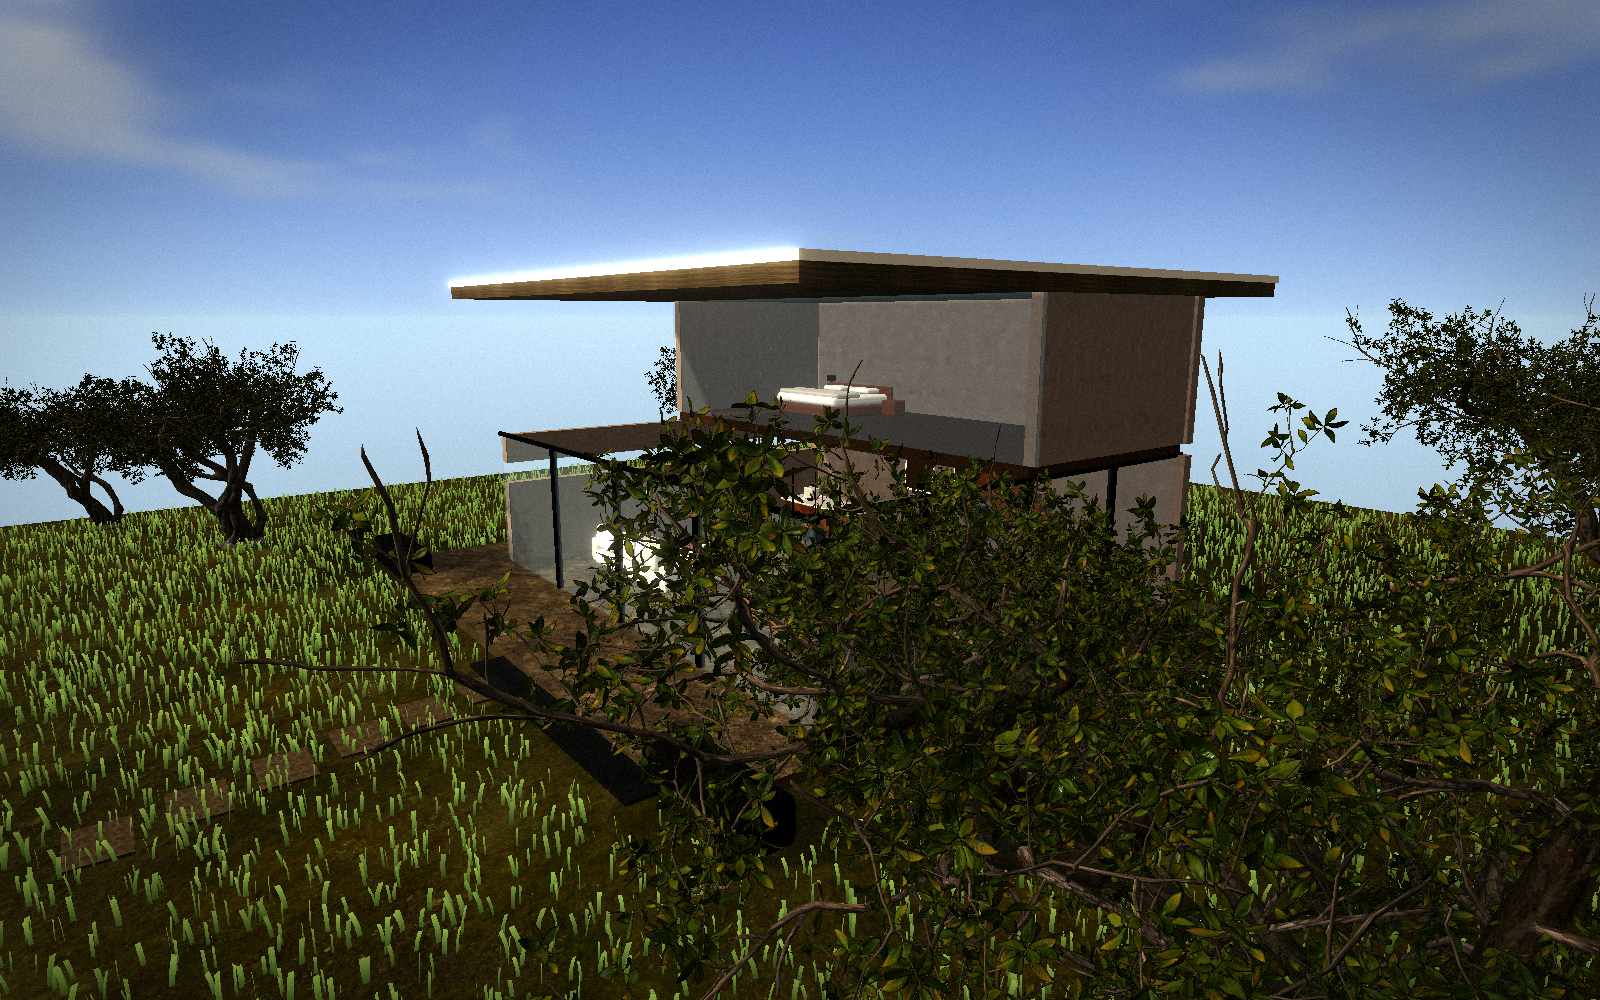
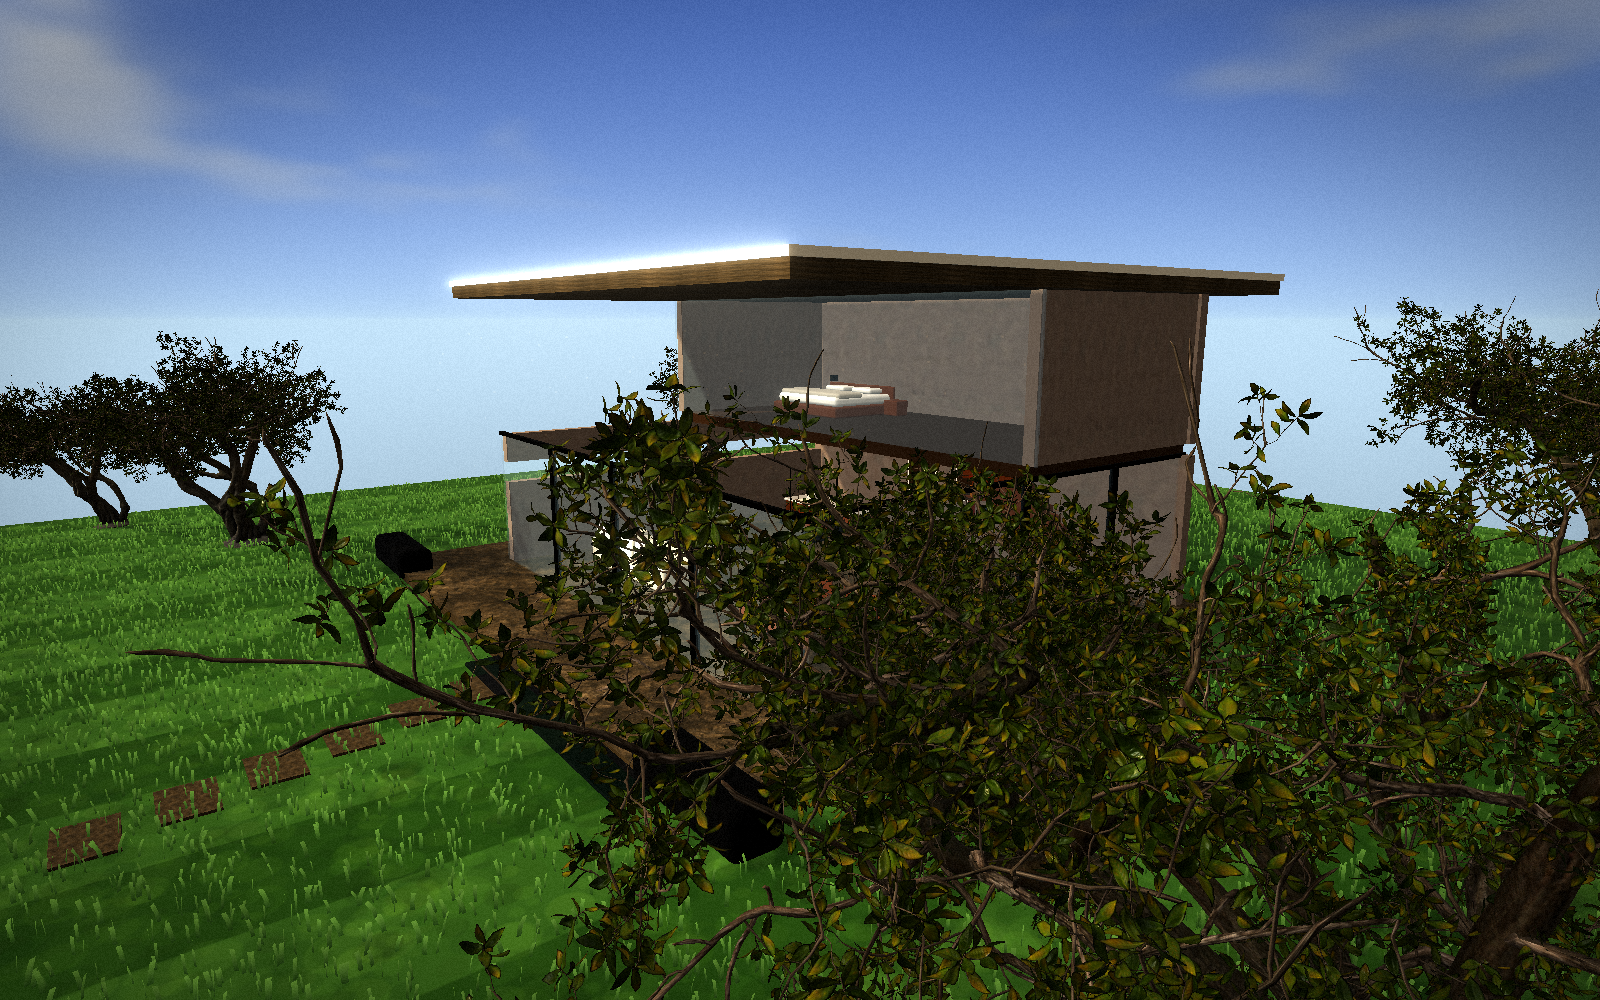
feat: procedural mown lawn with stripes, denser shorter blades in lawn palette

diff --git a/designs/01-house-walkthrough/index.html b/designs/01-house-walkthrough/index.html
@@ -294,7 +294,33 @@ const M = {
   counter: new THREE.MeshStandardMaterial({ color: '#e8e4da', roughness: 0.3, metalness: 0 }),
   metal: new THREE.MeshStandardMaterial({ color: '#2a2723', roughness: 0.35, metalness: 0.9 }),
   glass: new THREE.MeshStandardMaterial({ color: '#b8ccd6', roughness: 0.05, metalness: 0, transparent: true, opacity: 0.12, envMapIntensity: 1.0, side: THREE.DoubleSide }),
-  ground: new THREE.MeshStandardMaterial({ ...pbr('aerial_grass_rock', 7), color: '#b3c489', roughness: 1, metalness: 0 }),
+  // procedural mown lawn — the rock/dirt photo texture read as mud under the grass
+  // blades; alternating mowing stripes are the strongest "kept lawn" cue there is
+  ground: new THREE.MeshStandardMaterial({
+    map: (() => {
+      const c = document.createElement('canvas'); c.width = c.height = 1024;
+      const g = c.getContext('2d');
+      g.fillStyle = '#557741'; g.fillRect(0, 0, 1024, 1024);
+      for (let s = 0; s < 10; s++) {                        // mowing stripes
+        g.fillStyle = s % 2 ? 'rgba(255,255,240,0.07)' : 'rgba(20,40,10,0.09)';
+        g.fillRect(s * 102.4, 0, 102.4, 1024);
+      }
+      let a = 97;
+      const rnd = () => { a |= 0; a = (a + 0x6D2B79F5) | 0; let t = Math.imul(a ^ (a >>> 15), 1 | a); t = (t + Math.imul(t ^ (t >>> 7), 61 | t)) ^ t; return ((t ^ (t >>> 14)) >>> 0) / 4294967296; };
+      for (let i = 0; i < 5200; i++) {                      // tonal mottling
+        const r = 3 + rnd() * 14;
+        g.fillStyle = rnd() < 0.5 ? `rgba(210,230,150,${0.02 + rnd() * 0.05})` : `rgba(25,50,15,${0.02 + rnd() * 0.06})`;
+        g.beginPath(); g.arc(rnd() * 1024, rnd() * 1024, r, 0, 7); g.fill();
+      }
+      const t = new THREE.CanvasTexture(c);
+      t.colorSpace = THREE.SRGBColorSpace;
+      t.wrapS = t.wrapT = THREE.RepeatWrapping;
+      t.repeat.set(2, 2);
+      t.anisotropy = maxAniso;
+      return t;
+    })(),
+    roughness: 1, metalness: 0,
+  }),
   water: new THREE.MeshStandardMaterial({ color: '#1b2733', roughness: 0.08, metalness: 0.4, transparent: true, opacity: 0.85 }),
   foliage: new THREE.MeshStandardMaterial({ vertexColors: true, roughness: 0.88, metalness: 0 }),
   trunk: new THREE.MeshStandardMaterial({ color: '#3a2c20', roughness: 0.95 }),
@@ -474,9 +500,9 @@ function rbox(w, h, d, r, mat, x, y, z) {
 const grassUniforms = { uTime: { value: 0 }, uNight: { value: 0 } };
 (function buildGrass() {
   const rnd = ((a) => () => { a |= 0; a = (a + 0x6D2B79F5) | 0; let t = Math.imul(a ^ (a >>> 15), 1 | a); t = (t + Math.imul(t ^ (t >>> 7), 61 | t)) ^ t; return ((t ^ (t >>> 14)) >>> 0) / 4294967296; })(1234);
-  const COUNT = 20000;
-  const geo = new THREE.PlaneGeometry(0.05, 0.28, 1, 2);   // lawn, not reeds
-  geo.translate(0, 0.14, 0);
+  const COUNT = 26000;
+  const geo = new THREE.PlaneGeometry(0.045, 0.22, 1, 2);   // lawn, not reeds
+  geo.translate(0, 0.11, 0);
   const mat = new THREE.ShaderMaterial({
     side: THREE.DoubleSide,
     uniforms: grassUniforms,
@@ -484,7 +510,7 @@ const grassUniforms = { uTime: { value: 0 }, uNight: { value: 0 } };
       uniform float uTime;
       varying float vH; varying float vShade;
       void main(){
-        vH = position.y / 0.28;
+        vH = position.y / 0.22;
         vec4 local = vec4(position, 1.0);
         vShade = fract(instanceMatrix[3][0] * 0.43 + instanceMatrix[3][2] * 0.71);
         // wind: bend increases toward the tip, phase varies per blade position
@@ -497,8 +523,9 @@ const grassUniforms = { uTime: { value: 0 }, uNight: { value: 0 } };
       uniform float uNight;
       varying float vH; varying float vShade;
       void main(){
-        vec3 base = mix(vec3(0.25, 0.33, 0.14), vec3(0.56, 0.66, 0.31), vH);   // dark root → lit tip
-        base *= 0.85 + vShade * 0.3;
+        // rooted in the lawn's own palette so blades blend into the ground read
+        vec3 base = mix(vec3(0.16, 0.27, 0.10), vec3(0.42, 0.58, 0.25), vH);
+        base *= 0.88 + vShade * 0.24;
         base *= mix(1.0, 0.2, uNight);   // unlit shader — must follow the day into darkness
         gl_FragColor = vec4(base, 1.0);
       }`,
